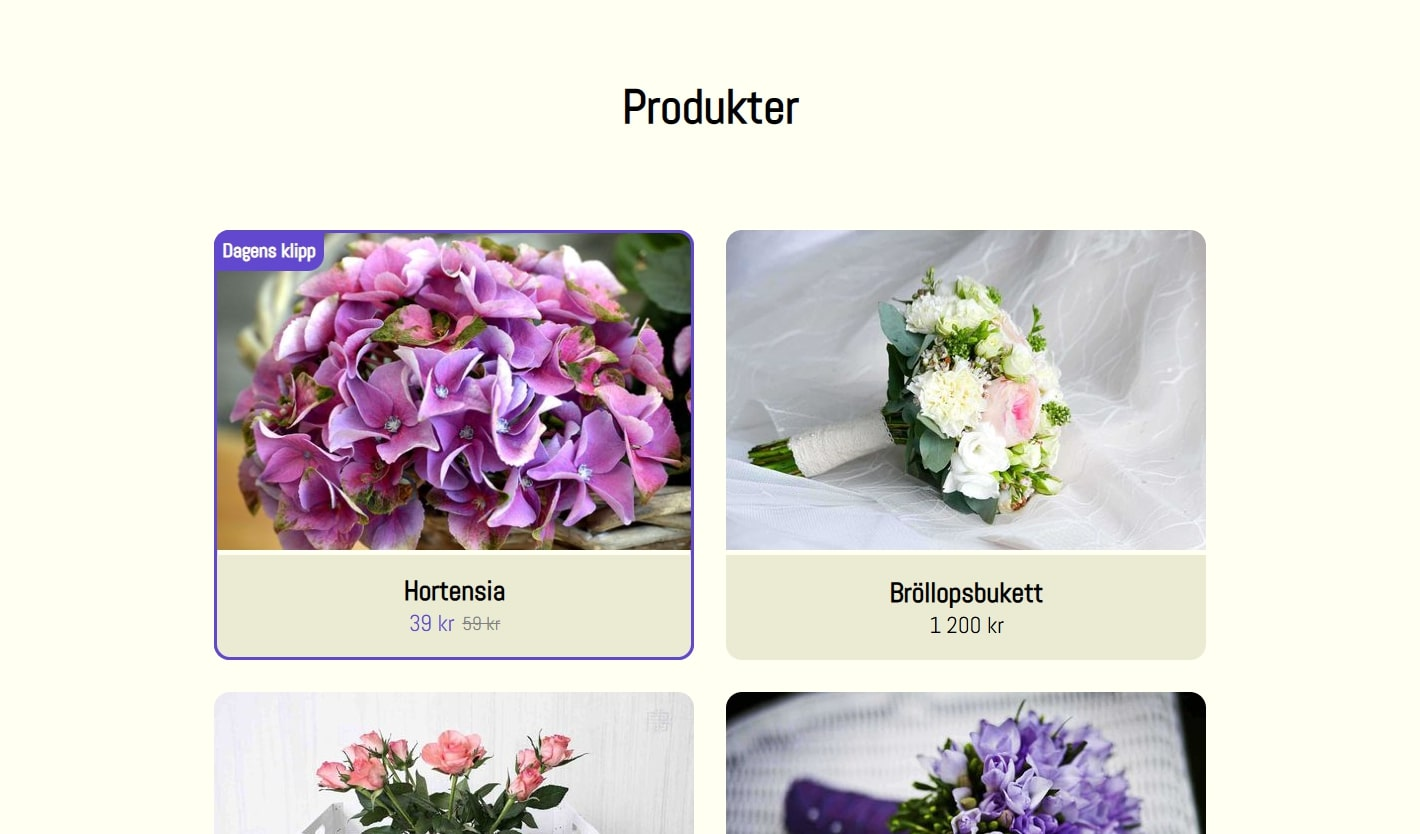
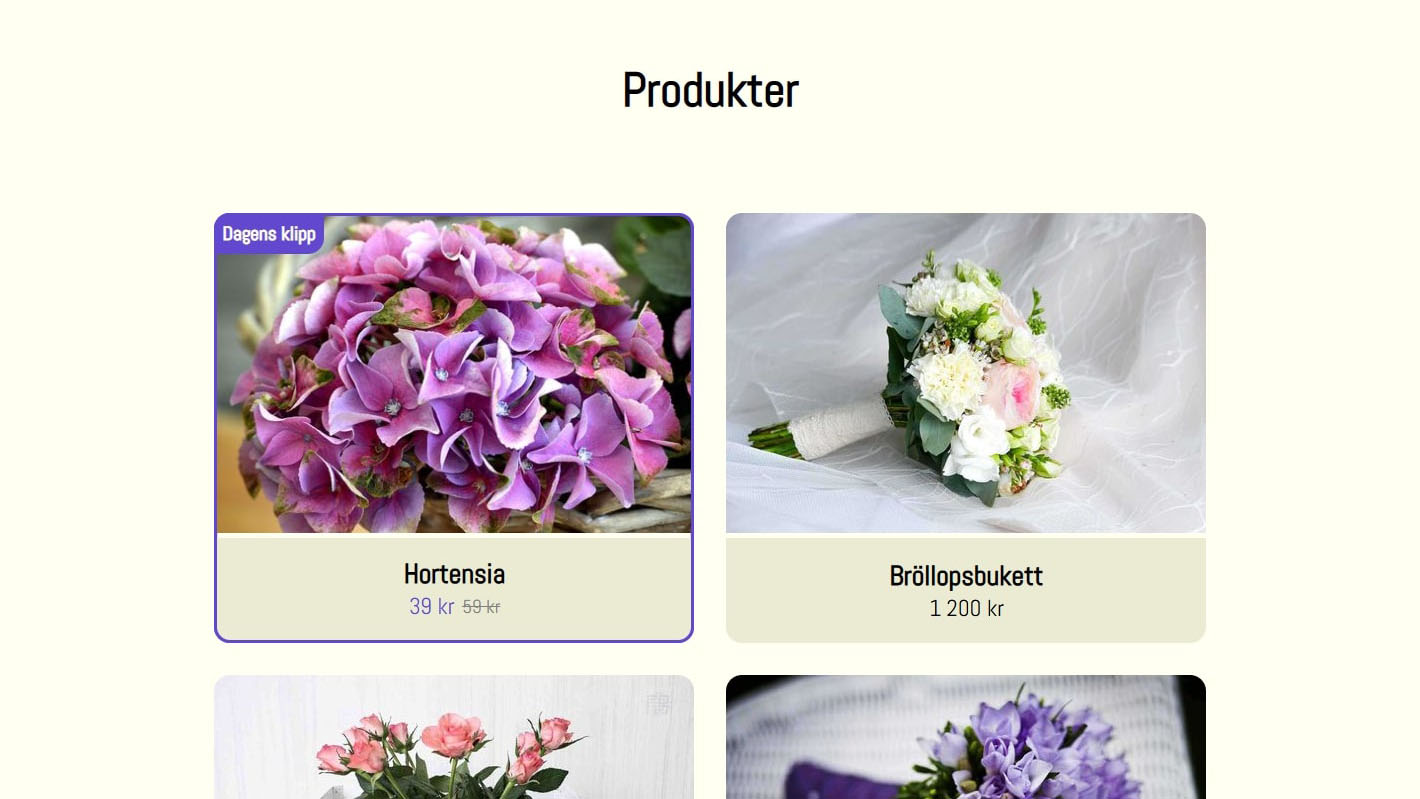
implementerat lightbox2 för att visa bilder.

diff --git a/public/se/index.html b/public/se/index.html
@@ -2,8 +2,9 @@
     <head>
         <meta charset="UTF-8" />
         <meta name="viewport" content="width=device-width, initial-scale=1.0" />
-        <link rel="stylesheet" type="text/css" href="/css/style.css" />
-        <link rel="stylesheet" type="text/css" href="/css/block-style.css" />
+        <link rel="stylesheet" type="text/css" href="../css/style.css" />
+        <link rel="stylesheet" type="text/css" href="../css/block-style.css" />
+        <link rel="stylesheet" type="text/css" href="../css/lightbox.css" />
         <title>Jespers portfolio</title>
     </head>
     <body>
@@ -66,6 +67,7 @@
                 </section>
                 <section id="projects-section" class="bg-white mt-1 p-1">
                     <h2 class="header">Projekt</h2>
+                        <hr />
                         <div class="block project-block">
                             <div class="block-top-content">
                                 <div class="block-left-content">
@@ -78,9 +80,14 @@
                                 <p class="block-date">2024</p>
                             </div>
                             <div class="block-images">
-                                <img src="../images/bordsplaceringsgeneratorn.jpg" alt="Bordsplaceringsgeneratorn" class="block-image" />
+                                    <a class="block-image-link" href="../images/bordsplaceringsgeneratorn.jpg" data-lightbox="bordsplaceringsgeneratorn-images" data-title="Bordsplaceringsgeneratorn"><img
+                                            src="../images/bordsplaceringsgeneratorn-sm.jpg"
+                                            alt="Bordsplaceringsgeneratorn"
+                                            class="block-image"
+                                        /></a>
                             </div>
                         </div>
+                        <hr />
                         <div class="block project-block">
                             <div class="block-top-content">
                                 <div class="block-left-content">
@@ -92,10 +99,19 @@
                                 <p class="block-date">2024</p>
                             </div>
                             <div class="block-images">
-                                <img src="../images/florista-1.jpg" alt="Florista Start View" class="block-image" />
-                                <img src="../images/florista-2.jpg" alt="Florista Products Section" class="block-image" />
+                                    <a class="block-image-link" href="../images/florista-1.jpg" data-lightbox="florista-images" data-title="Florista Start View"><img
+                                            src="../images/florista-1-sm.jpg"
+                                            alt="Florista Start View"
+                                            class="block-image"
+                                        /></a>
+                                    <a class="block-image-link" href="../images/florista-2.jpg" data-lightbox="florista-images" data-title="Florista Products Section"><img
+                                            src="../images/florista-2-sm.jpg"
+                                            alt="Florista Products Section"
+                                            class="block-image"
+                                        /></a>
                             </div>
                         </div>
+                        <hr />
                         <div class="block project-block">
                             <div class="block-top-content">
                                 <div class="block-left-content">
@@ -107,9 +123,14 @@
                                 <p class="block-date">2024</p>
                             </div>
                             <div class="block-images">
-                                <img src="../images/il-forno-magico.jpg" alt="Il Forno Magico Start View" class="block-image" />
+                                    <a class="block-image-link" href="../images/il-forno-magico.jpg" data-lightbox="il-forno-magico-images" data-title="Il Forno Magico Start View"><img
+                                            src="../images/il-forno-magico-sm.jpg"
+                                            alt="Il Forno Magico Start View"
+                                            class="block-image"
+                                        /></a>
                             </div>
                         </div>
+                        <hr />
                         <div class="block project-block">
                             <div class="block-top-content">
                                 <div class="block-left-content">
@@ -123,6 +144,7 @@
                             <div class="block-images">
                             </div>
                         </div>
+                        <hr />
                         <div class="block project-block">
                             <div class="block-top-content">
                                 <div class="block-left-content">
@@ -135,10 +157,19 @@
                                 <p class="block-date">2019-2024</p>
                             </div>
                             <div class="block-images">
-                                <img src="../images/winterland-1.jpg" alt="Winterland Level 1" class="block-image" />
-                                <img src="../images/winterland-2.jpg" alt="Winterland Level 2" class="block-image" />
+                                    <a class="block-image-link" href="../images/winterland-1.jpg" data-lightbox="winterland-images" data-title="Winterland Level 1"><img
+                                            src="../images/winterland-1-sm.jpg"
+                                            alt="Winterland Level 1"
+                                            class="block-image"
+                                        /></a>
+                                    <a class="block-image-link" href="../images/winterland-2.jpg" data-lightbox="winterland-images" data-title="Winterland Level 2"><img
+                                            src="../images/winterland-2-sm.jpg"
+                                            alt="Winterland Level 2"
+                                            class="block-image"
+                                        /></a>
                             </div>
                         </div>
+                        <hr />
                         <div class="block project-block">
                             <div class="block-top-content">
                                 <div class="block-left-content">
@@ -191,5 +222,6 @@
                 </div>
             </div>
         </div>
+        <script src="../js/lightbox-plus-jquery.js"></script>
     </body>
 </html>

diff --git a/public/css/block-style.css b/public/css/block-style.css
@@ -3,7 +3,7 @@
     flex-direction: column;
     justify-content: space-between;
     /* align-items: center; */
-    margin-top: 0.5rem;
+    margin-bottom: 0.5rem;
 }
 
 .block-left-content {
@@ -38,8 +38,10 @@
 }
 
 .block-image {
-    width: 45%;
+    width: 100%;
     height: auto;
+    /* width: auto; */
+    /* height: 40%; */
     /* margin: 1rem; */
     margin-top: 0.5rem;
     margin-right: 0.5rem;
@@ -48,6 +50,12 @@
 .block-images {
     display: flex;
     flex-direction: row;
+    /* align-items: start; */
+    align-content: start;
     justify-content: space-evenly;
     margin-top: 0.5rem;
+}
+
+.block-images a {
+    width: 45%;
 }
